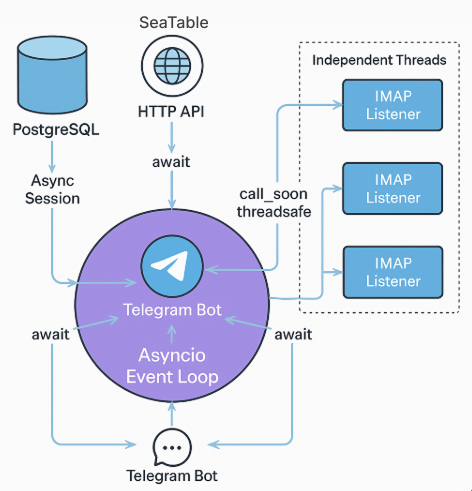
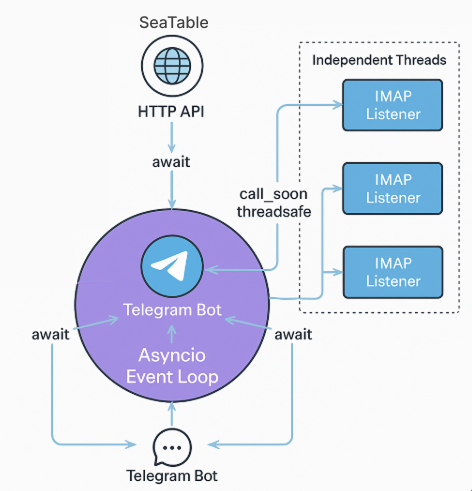
Sending to chats id done and the whole second version is finished

Changed region(s): [[0.0297, 0.0611, 0.2966, 0.5804]]

diff --git a/seatable_api.py b/seatable_api.py
@@ -379,6 +379,87 @@ async def register_group(chat_id: int, chat_title: str) -> bool:
         return False
 
 
+async def get_chats_to_send(email: str) -> list[str]:
+    """Получает список id_telegram групп (чатов), подписанных на указанный email"""
+    try:
+        token_data = await get_base_token()
+        if not token_data:
+            logger.error("Не удалось получить токен SeaTable")
+            return []
+
+        base_url = f"{token_data['dtable_server']}api/v1/dtables/{token_data['dtable_uuid']}/rows/"
+        headers = {
+            "Authorization": f"Bearer {token_data['access_token']}",
+            "Accept": "application/json",
+            "Content-Type": "application/json"
+        }
+
+        # Поиск чатов по email
+        t_chats_params = {"table_name": Config.SEATABLE_MAILBOXES_TABLE_ID}
+        async with aiohttp.ClientSession() as session:
+            async with session.get(base_url, headers=headers, params=t_chats_params) as resp:
+                if resp.status != 200:
+                    error_text = await resp.text()
+                    logger.error(f"Ошибка получения t_chats. Status: {resp.status}, Response: {error_text}")
+                    return []
+
+                t_chats_data = await resp.json()
+                logger.info(f"Получено t_chats: {len(t_chats_data.get('rows', []))} записей")
+
+                target_t_chats = None
+                found_emails = []  # Для логирования всех email в таблице
+
+                for t_chat in t_chats_data.get("rows", []):
+                    current_email = str(t_chat.get("email", ""))
+                    found_emails.append(current_email)
+
+                    if current_email == str(email):
+                        target_t_chats = t_chat
+                        logger.info(f"Найден чат: {t_chat}")
+                        break
+
+                if not target_t_chats:
+                    logger.error(f"Mailbox {email} не найден. Доступные email: {', '.join(found_emails)}")
+                    return []
+
+                # Получаем список чатов из поля
+                t_chats_ids = target_t_chats.get("t_chats", [])
+                logger.info(f"Найдены t_chats_ids для {email}: {t_chats_ids}")
+
+                if not t_chats_ids:
+                    logger.error(f"Для ящика {email} поле t_chats пустое или отсутствует")
+                    return []
+
+                # Получаем telegram_ids из таблицы t_chats
+                t_chats_params = {"table_name": Config.SEATABLE_T_CHATS_TABLE_ID}
+
+                async with session.get(base_url, headers=headers, params=t_chats_params) as resp:
+                    if resp.status != 200:
+                        error_text = await resp.text()
+                        logger.error(f"Ошибка получения t_chats. Status: {resp.status}, Response: {error_text}")
+                        return []
+
+                    t_chats_data = await resp.json()
+                    t_chats_rows = t_chats_data.get("rows", [])
+                    logger.info(f"Получено users: {len(t_chats_rows)} записей")
+
+                    # Собираем id_telegram нужных чатов
+                    valid_t_chats = []
+
+                    for t_chat in t_chats_rows:
+                        id_seatable = t_chat.get("_id")
+                        tg_id = t_chat.get("id_telegram_chat")
+                        if id_seatable in t_chats_ids and tg_id:
+                            valid_t_chats.append(str(tg_id))
+                    logger.info(f"Подходящие чаты для рассылки: {valid_t_chats}")
+
+                    return valid_t_chats
+
+    except Exception as e:
+        logger.error(f"Критическая ошибка в get_chats_to_send: {str(e)}", exc_info=True)
+        return []
+
+
 async def get_last_uid(email: str) -> str | None:
     """Получает last_uid (id последнего обработанного письма) из таблицы Mailbox по email"""
     try:

diff --git a/email_handler.py b/email_handler.py
@@ -5,7 +5,7 @@ import logging
 import email.utils
 
 from bot import bot
-from seatable_api import get_last_uid, update_last_uid, get_users_to_send
+from seatable_api import get_last_uid, update_last_uid, get_users_to_send, get_chats_to_send
 from aiogram.types import BufferedInputFile
 from imap_tools import MailBox, AND
 from email.header import decode_header
@@ -94,7 +94,7 @@ async def handle_email(email_msg):
                     if not filename:
                         filename = f"attachment_{formatted_date.replace(':', '_')}{file_extension}"
                     else:
-                        # Для PDF добавляем дату (уже с двоеточием)
+                        # Для PDF добавляем дату
                         if file_extension == '.pdf':
                             base_name = os.path.splitext(filename)[0]
                             filename = f"{base_name} {formatted_date}{file_extension}"
@@ -120,11 +120,15 @@ async def distribute_attachments(email: str, subject: str, attachments: list[tup
                                  loop: asyncio.AbstractEventLoop):
     """Рассылает вложения пользователям, подписанным на указанный email"""
     try:
-        # Получаем список telegram_id
-        telegram_ids = await get_users_to_send(email)
+        # Получаем список telegram_id пользователей
+        telegram_users_ids = await get_users_to_send(email)
+        # Получаем список telegram_id групп
+        telegram_chats_ids = await get_chats_to_send(email)
+
+        telegram_ids = telegram_users_ids + telegram_chats_ids
 
         if not telegram_ids:
-            logger.error(f"[{email}] Нет подписчиков для рассылки")
+            logger.error(f"[{email}] Нет подписчиков или групп для рассылки")
             return
 
         # Рассылаем вложения
@@ -166,7 +170,7 @@ async def resend_report(message, account_email: str, loop: asyncio.AbstractEvent
 
 
 def imap_idle_listener(account, loop):
-    """Слушает входящие письма на одном аккаунте через IMAP IDLE."""
+    """Слушает входящие письма на одном почтовом аккаунте через IMAP IDLE."""
     while True:
         try:
             with MailBox(account["imap"]).login(account["email"], account["password"]) as mailbox:

diff --git a/main.py b/main.py
@@ -35,10 +35,14 @@ async def main():
             "password": Config.IMAP_PASSWORD_SR03,
             "imap": Config.IMAP_SERVER
         },
+        {
+            "email": Config.IMAP_EMAIL_SR04,
+            "password": Config.IMAP_PASSWORD_SR04,
+            "imap": Config.IMAP_SERVER
+        },
     ]
 
     loop = asyncio.get_running_loop()
-
 
     # Запускаем IMAP‑слушателей
     for account in accounts:

diff --git a/config.py b/config.py
@@ -9,6 +9,8 @@ class Config:
     IMAP_SERVER = os.getenv("IMAP_SERVER")
     IMAP_EMAIL_SR03 = os.getenv("IMAP_EMAIL_SR03")
     IMAP_PASSWORD_SR03 = os.getenv("IMAP_PASSWORD_SR03")
+    IMAP_EMAIL_SR04 = os.getenv("IMAP_EMAIL_SR04")
+    IMAP_PASSWORD_SR04 = os.getenv("IMAP_PASSWORD_SR04")
 
     SEATABLE_API_TOKEN = os.getenv("SEATABLE_API_TOKEN")
     SEATABLE_SERVER = os.getenv("SEATABLE_SERVER")

diff --git a/custom_logging.py b/custom_logging.py
@@ -35,6 +35,6 @@ def setup_logging():
     logger.addHandler(file_handler)
     logger.addHandler(console_handler)
 
-    # Уменьшаем логирование для библиотек
+    # Логирование для библиотек
     logging.getLogger('aiogram').setLevel(logging.INFO)
     logging.getLogger('sqlalchemy').setLevel(logging.INFO)

diff --git a/README.md b/README.md
@@ -1,40 +1,42 @@
 # Телеграм-бот для рассылки отчетов из Superset
 
 ## Назначение
-Telegram-бот позволяет автоматически отправлять отчёты с BI-платформы Apache Superset конечным пользователям через 
-технические email-аккаунты. Он реагирует на входящие письма с PDF-вложениями и рассылает отчёты в Telegram.
+Бот позволяет автоматически отправлять отчёты с BI-платформы Apache Superset в телеграм — пользователям и группам через 
+технические email-аккаунты. Он реагирует на входящие письма с PDF- и PNG-вложениями, и пересылает отчёты в Telegram.
 
 ## Как работает бот
-- Новые пользователи добавляются в конфигурационную таблицу Seatable.
-- Раз в сутки запускается синхронизация: Seatable передает по API боту данные о пользователях и об их подписках на 
-ящики. Данные записываются в базу данных Postgres. Новые пользователи добавляются, а пользователи, которых удалили из 
-Seatable (сотрудник уволился), удаляются из БД. Удаленные из БД пользователи больше не получают отчеты.
-- Пользователи запускают бот и авторизуются по номеру телефона. В момент авторизации в БД записывается Telegram ID 
-пользователя.
+- *Регистрация пользователей:* 
+- - Системный администратор добавляет нового пользователя в конфигурационную таблицу Seatable: имя, телефон и ящики, 
+с которых пользователь будет получать сообщения.
+- - Пользователь запускает бота на своем устройстве. 
+- - Бот просит пользователя поделиться номером телефона.
+- - Бот обращается по АПИ в Seatable, проверяет, есть ли пользователь с таким телефоном. Если есть, записывает его
+id_telegram. 
+- - Регистрация завершена. Пользователь получает сообщение, что он подписан на рассылку.
+- *Регистрация групп (чатов):* 
+- - Системный администратор добавляет название группы и ящики, с которых в группу нужно пересылать вложения.
+- - Администратор группы добавляет бота в группу.
+- - Администратор группы дает боту права администратора. 
+- - Бот обращается по АПИ в Seatable, проверяет, есть ли группа с таким названием. Если есть, записывает ее
+id_telegram. При этом ставится блокировка от перезаписи id_telegram чата.
+- - Регистрация группы завершена.
 - Бот «слушает» ящики через IMAP в режиме IDLE.
 - Superset отправляет отчёты на email-ящики.
-
-- Когда приходит письмо с вложением PDF, бот:
-
-  - извлекает тему и файлы в формате PDF;
-  - находит нужных Telegram-получателей в базе по email;
-
-  - рассылает отчёт пользователям по их Telegram ID, которые получает из базы.
+- Когда приходит письмо с вложением, бот:
+  - извлекает тему, а также файлы в формате PDF и PNG;
+  - находит нужных Telegram-получателей в базе по email — это отдельные пользователи и/или группы;
+  - рассылает отчёт по списку id_telegram.
 
 
 ## Основные компоненты
 
-![](sset-bot-scheme.png)
-
-**Seatable** — конфигурационная база. Используется для хранения параметров доступа и связей между пользователями 
-и ящиками.<br>
-
-**PostgreSQL** — хранит Telegram-ID пользователей и обрабатывает запросы при рассылке. Каждое обращение к БД 
-обрабатывается в рамках асинхронной сессии.<br>
+**Seatable** — конфигурационная база. Используется для хранения параметров доступа и связей между пользователями, 
+чатами и ящиками.<br>
 
 **IMAP Idle Listener** — слушает входящие письма на почтовых ящиках через IMAP IDLE. Каждый ящик запускается в отдельном 
 потоке.<br>
 
 **Telegram Bot** — отвечает на команды пользователей, рассылает вложения из писем.
 
+![](sset-bot-scheme.png)
 
